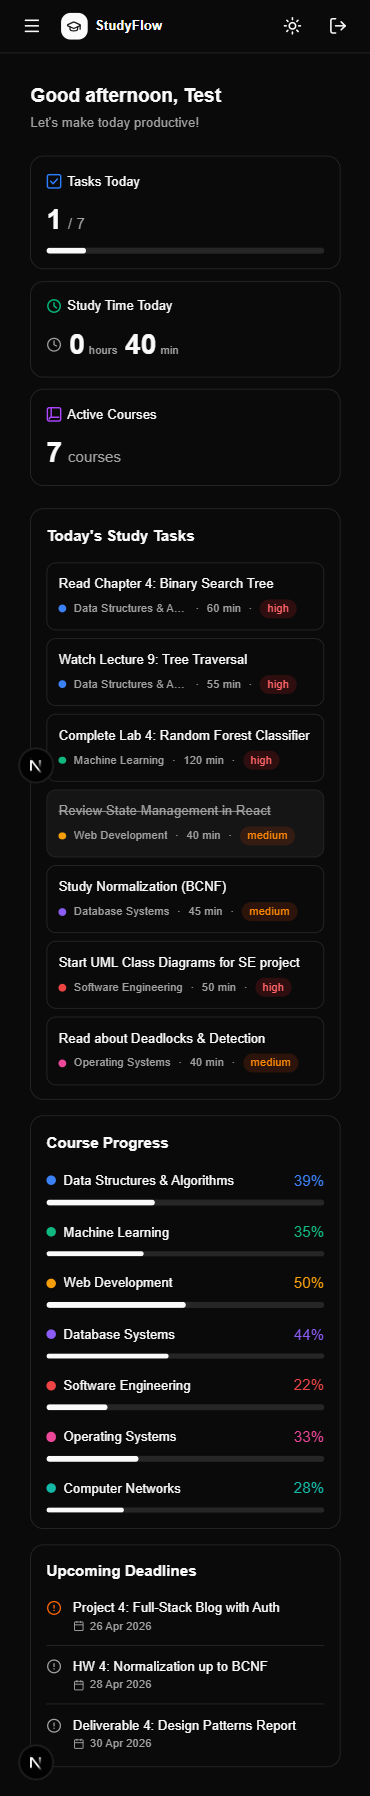
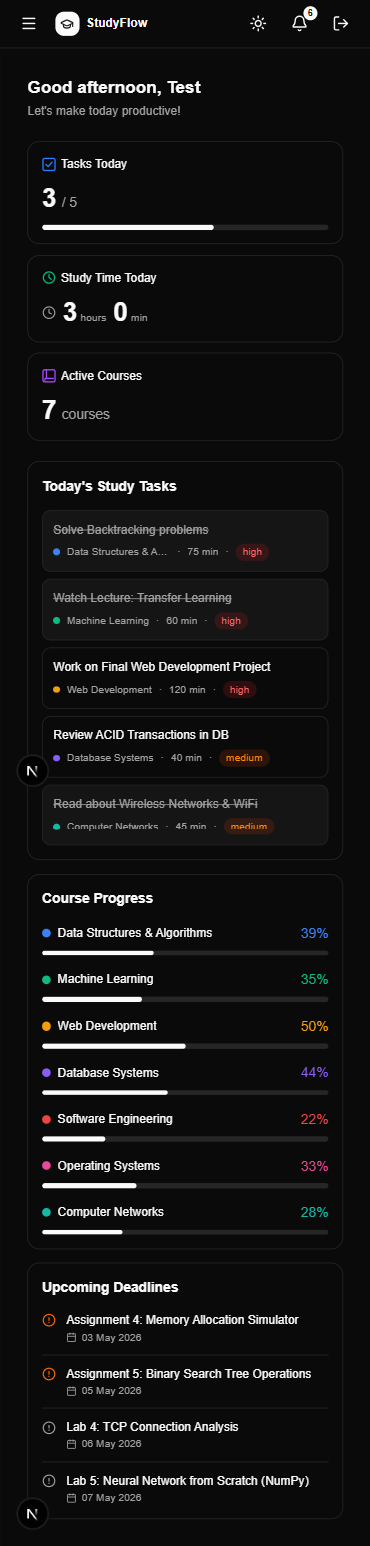
Refactor: making the screenshots and readme file up to date.

diff --git a/README.md b/README.md
@@ -64,6 +64,22 @@
 - Dark mode / Light mode toggle
 - Clean and intuitive interface built for students
 
+### 🔔 In-App Notifications
+- Real-time notification feed in the sidebar
+- Notifications for task events, deadline reminders, and Pomodoro session completions
+- Course progress updates trigger automatic notifications
+
+### 📲 Push Notifications
+- Browser push notification support via Service Worker
+- Notification toggle in the UI to subscribe/unsubscribe
+- Deadline and session reminders delivered even when the app is in the background
+
+### ⚡ Server-Side Rendering (SSR) Optimization
+- Dashboard and key components refactored to use server-side data fetching
+- Proper separation of server and client components using `"use client"` directive
+- Loading skeleton components for improved perceived performance
+- Reduced client-side JavaScript bundle size
+
 ---
 
 ## 🛠 Tech Stack
@@ -261,6 +277,11 @@ NEXT_PUBLIC_API_URL=http://localhost:8000/api
 | `PUT` | `/api/tasks/{id}` | Update a task |
 | `GET` | `/api/progress` | Get progress stats |
 | `POST` | `/api/generate-course` | Upload and parse syllabus via AI |
+| `GET`    | `/api/notifications`       | Get all user notifications          |
+| `POST`   | `/api/notifications`       | Create a notification               |
+| `DELETE` | `/api/notifications/{id}`  | Delete a notification               |
+| `POST`   | `/api/push-subscriptions`  | Save a push notification subscription |
+| `DELETE` | `/api/push-subscriptions`  | Remove a push subscription          |
 
 ---
 
@@ -271,7 +292,8 @@ NEXT_PUBLIC_API_URL=http://localhost:8000/api
 - [ ] Grade & GPA Calculator
 - [ ] Study Session Heatmap (GitHub-style)
 - [ ] Weekly Study Plan Generator
-- [ ] Push notifications for deadlines
+- [x] Push notifications for deadlines
+- [x] In-app notification system with sidebar feed
 - [ ] Achievements & Badges system
 - [ ] Note-taking per topic
 - [ ] Mobile app (React Native)
